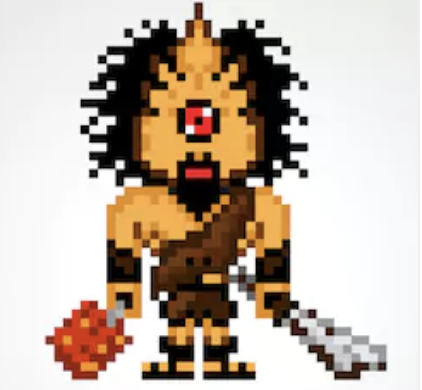
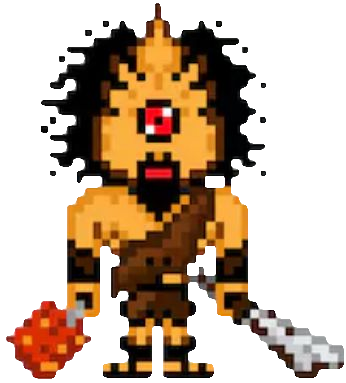
added characters without background and postioned page

diff --git a/public/styles.css b/public/styles.css
@@ -86,6 +86,7 @@ div.answered .incorrect {
 .battle__container {
     height: 100vh;
     width: 100%;
+    position: relative;
 }
 
 .battle__img__bg {
@@ -96,14 +97,17 @@ div.answered .incorrect {
     background-position: center;
 }
 
-.question__container {
-    display: flex;
-    flex-direction: column;
-    position: relative;
+.battle__char__img {
+    position: absolute;
+    left: 50%;
+    -webkit-transform: translateX(-50%);
+    transform: translateX(-50%);
+    top: 25%;
 }
 
 .question__container {
-    margin: 22rem auto 0 auto;
+    display: flex;
+    flex-direction: column;
     width: 90%;
     text-align: center;
     background: url(./img/wide-scroll.png);
@@ -112,21 +116,24 @@ div.answered .incorrect {
     background-position: center center;
     background-repeat: no-repeat;
     height: 30vh;
+    position: absolute;
+    left: 50%;
+    -webkit-transform: translateX(-50%);
+    transform: translateX(-50%);
+    bottom: 2%;
 }
 
 .question__container p.trivia__question {
     margin-bottom: 30px;
     padding: 10px;
-    border-radius: 3px;
-    color: #fff;
-    background: #FE533D;
-    margin: 5% 15% 1% 15%;
+    margin: 3% 15% 1% 15%;
 }
 
 .question__container section.answers {
     display: flex;
     justify-content: center;
 }
+
 
 section.answers button {
     margin: 0 10px;

diff --git a/public/js/components/battle-ground.js b/public/js/components/battle-ground.js
@@ -12,7 +12,7 @@ const battleGround = {
                 <section ng-hide="$ctrl.gameOver" class="section__health" id="id__health"></section>
             </section>
 
-
+            <img src="./img/achillestest.png" class="battle__char__img">
             <section class="question__container">
                 <section ng-show="$ctrl.gameOver" class="section__game-over">Game Over</section>
                 <section ng-if="$ctrl.answered === false">
